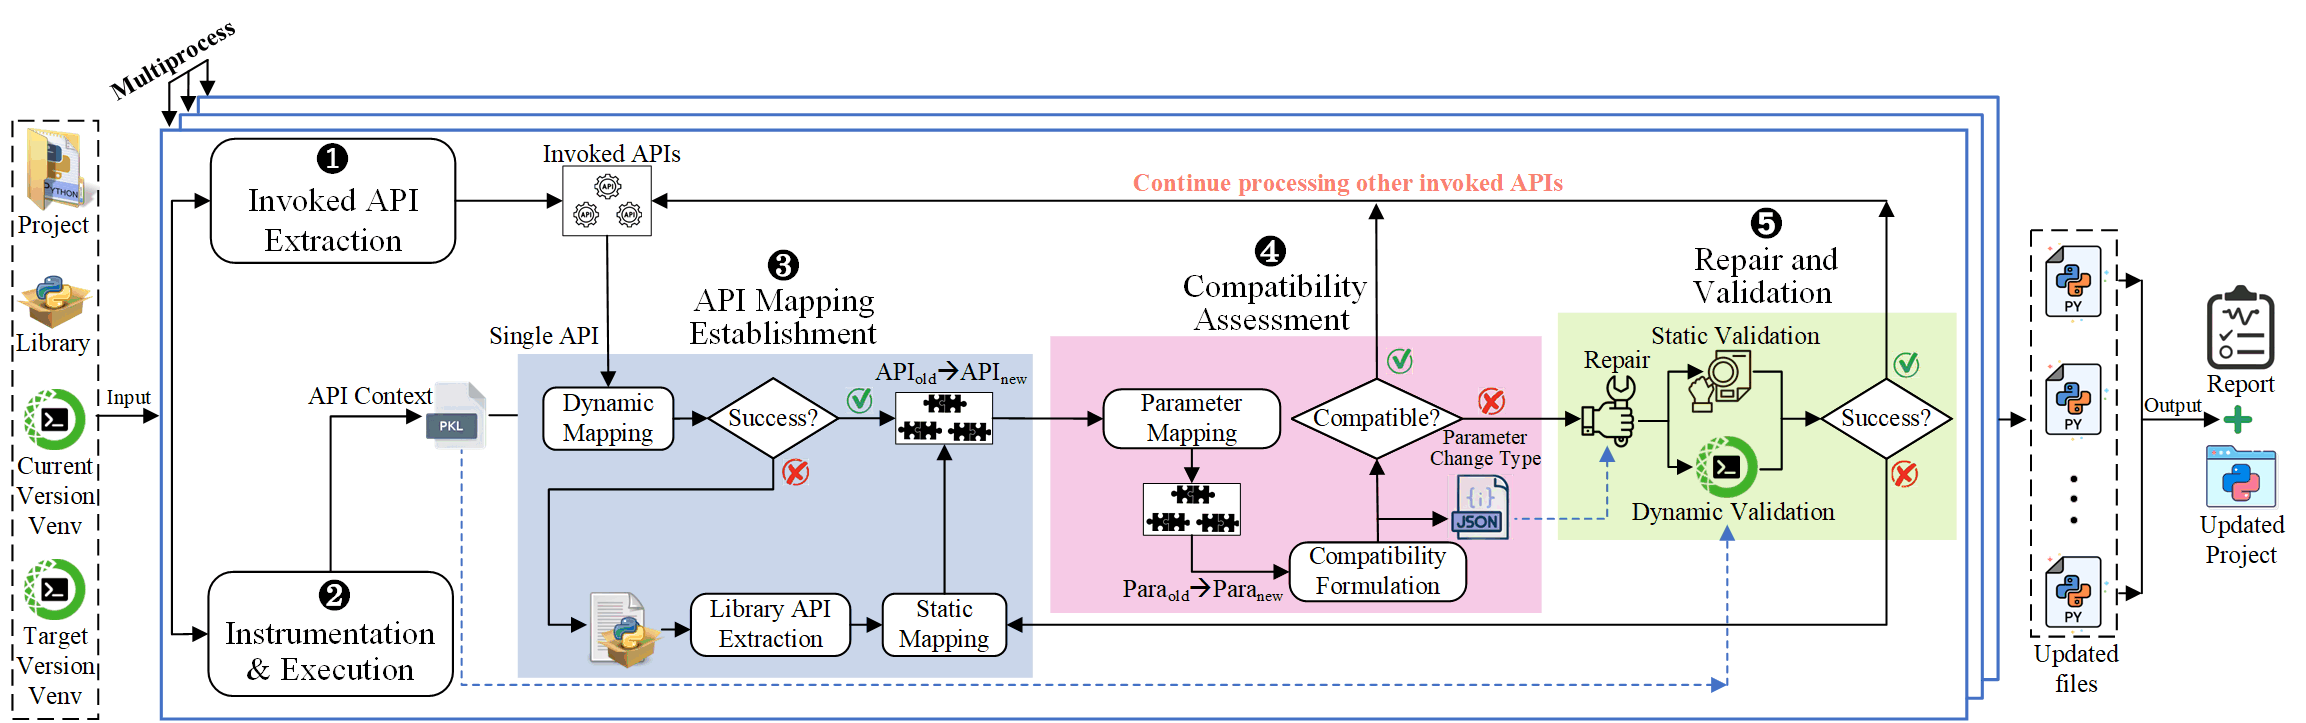
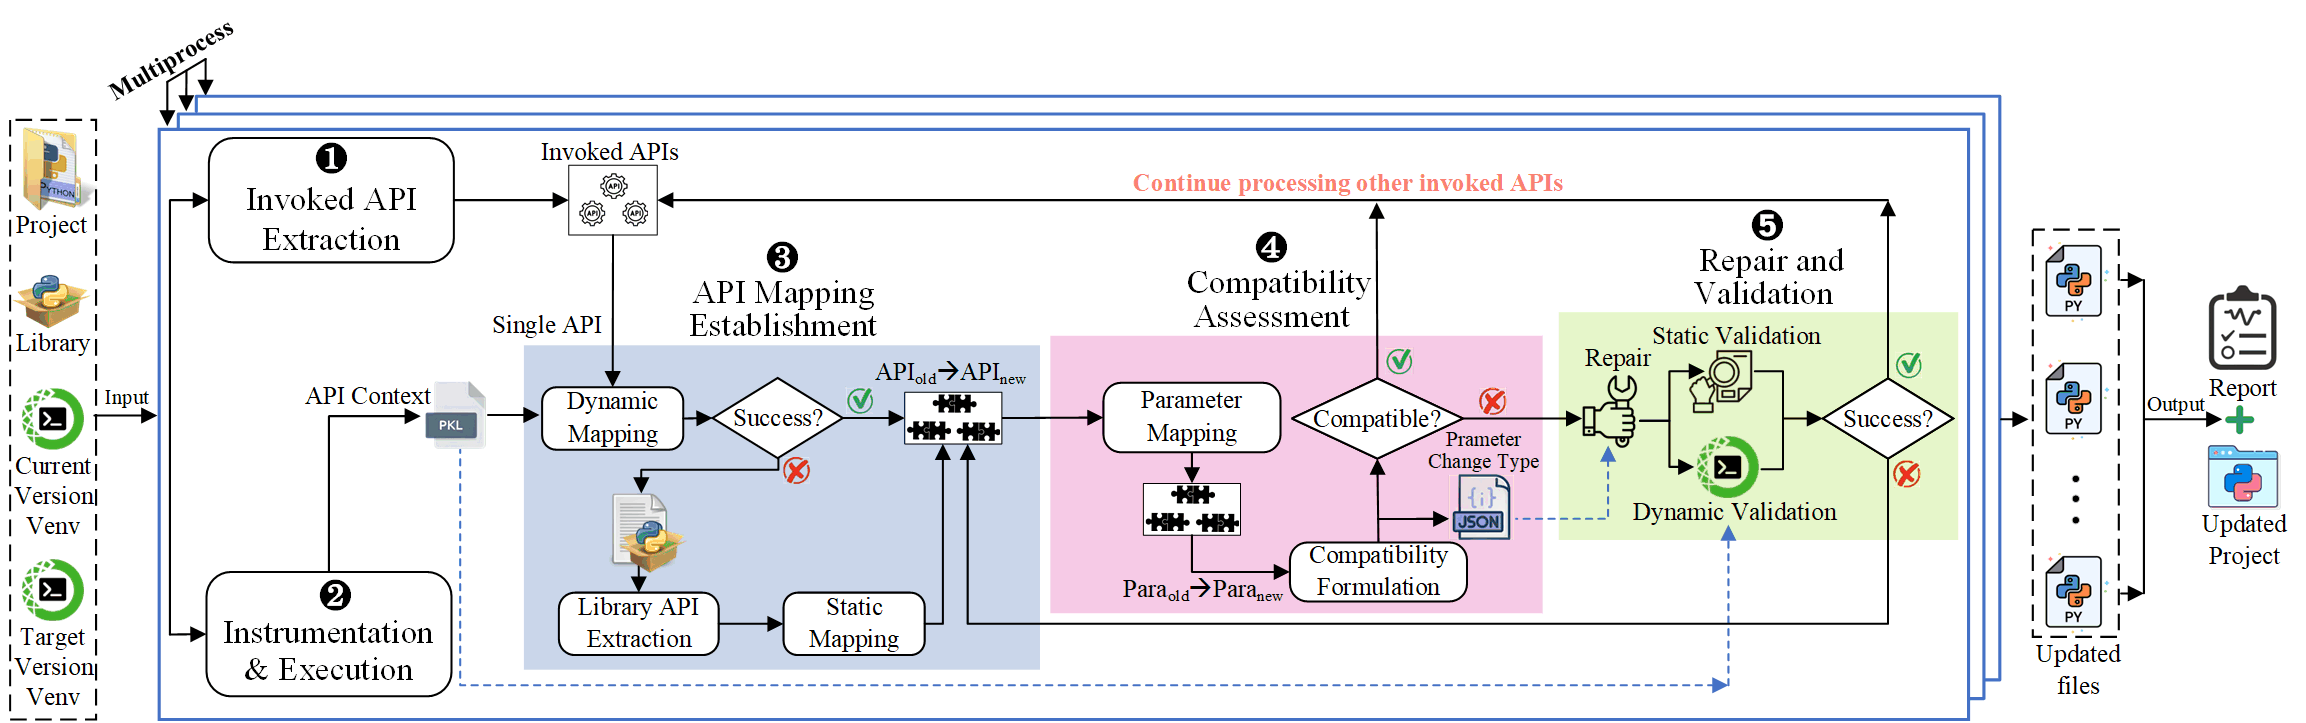
update PCART doxygen

diff --git a/html/classextractCall_1_1GetFuncCall.html b/html/classextractCall_1_1GetFuncCall.html
@@ -135,11 +135,15 @@ Public Member Functions</h2></td></tr>
 Here is the call graph for this function:</div>
 <div class="dyncontent">
 <div class="center"><img src="classextractCall_1_1GetFuncCall_ad1e246a71e92f76bf81912bbafa6445b_cgraph.png" border="0" usemap="#classextractCall_1_1GetFuncCall_ad1e246a71e92f76bf81912bbafa6445b_cgraph" alt=""/></div>
+<map name="classextractCall_1_1GetFuncCall_ad1e246a71e92f76bf81912bbafa6445b_cgraph" id="classextractCall_1_1GetFuncCall_ad1e246a71e92f76bf81912bbafa6445b_cgraph">
+</map>
 </div>
 <div class="dynheader">
 Here is the caller graph for this function:</div>
 <div class="dyncontent">
 <div class="center"><img src="classextractCall_1_1GetFuncCall_ad1e246a71e92f76bf81912bbafa6445b_icgraph.png" border="0" usemap="#classextractCall_1_1GetFuncCall_ad1e246a71e92f76bf81912bbafa6445b_icgraph" alt=""/></div>
+<map name="classextractCall_1_1GetFuncCall_ad1e246a71e92f76bf81912bbafa6445b_icgraph" id="classextractCall_1_1GetFuncCall_ad1e246a71e92f76bf81912bbafa6445b_icgraph">
+</map>
 </div>
 
 </div>

diff --git a/html/classextractDef_1_1FunctionDefVisitor.html b/html/classextractDef_1_1FunctionDefVisitor.html
@@ -73,11 +73,15 @@ $(function() {
 Inheritance diagram for FunctionDefVisitor:</div>
 <div class="dyncontent">
 <div class="center"><img src="classextractDef_1_1FunctionDefVisitor__inherit__graph.png" border="0" usemap="#FunctionDefVisitor_inherit__map" alt="Inheritance graph"/></div>
+<map name="FunctionDefVisitor_inherit__map" id="FunctionDefVisitor_inherit__map">
+</map>
 <center><span class="legend">[<a href="graph_legend.html">legend</a>]</span></center></div>
 <div class="dynheader">
 Collaboration diagram for FunctionDefVisitor:</div>
 <div class="dyncontent">
 <div class="center"><img src="classextractDef_1_1FunctionDefVisitor__coll__graph.png" border="0" usemap="#FunctionDefVisitor_coll__map" alt="Collaboration graph"/></div>
+<map name="FunctionDefVisitor_coll__map" id="FunctionDefVisitor_coll__map">
+</map>
 <center><span class="legend">[<a href="graph_legend.html">legend</a>]</span></center></div>
 <table class="memberdecls">
 <tr class="heading"><td colspan="2"><h2 class="groupheader"><a name="pub-methods"></a>

diff --git a/html/classextractCall_1_1AssignVisitor.html b/html/classextractCall_1_1AssignVisitor.html
@@ -73,11 +73,15 @@ $(function() {
 Inheritance diagram for AssignVisitor:</div>
 <div class="dyncontent">
 <div class="center"><img src="classextractCall_1_1AssignVisitor__inherit__graph.png" border="0" usemap="#AssignVisitor_inherit__map" alt="Inheritance graph"/></div>
+<map name="AssignVisitor_inherit__map" id="AssignVisitor_inherit__map">
+</map>
 <center><span class="legend">[<a href="graph_legend.html">legend</a>]</span></center></div>
 <div class="dynheader">
 Collaboration diagram for AssignVisitor:</div>
 <div class="dyncontent">
 <div class="center"><img src="classextractCall_1_1AssignVisitor__coll__graph.png" border="0" usemap="#AssignVisitor_coll__map" alt="Collaboration graph"/></div>
+<map name="AssignVisitor_coll__map" id="AssignVisitor_coll__map">
+</map>
 <center><span class="legend">[<a href="graph_legend.html">legend</a>]</span></center></div>
 <table class="memberdecls">
 <tr class="heading"><td colspan="2"><h2 class="groupheader"><a name="pub-methods"></a>

diff --git a/html/classextractDef_1_1FromImport.html b/html/classextractDef_1_1FromImport.html
@@ -73,11 +73,15 @@ $(function() {
 Inheritance diagram for FromImport:</div>
 <div class="dyncontent">
 <div class="center"><img src="classextractDef_1_1FromImport__inherit__graph.png" border="0" usemap="#FromImport_inherit__map" alt="Inheritance graph"/></div>
+<map name="FromImport_inherit__map" id="FromImport_inherit__map">
+</map>
 <center><span class="legend">[<a href="graph_legend.html">legend</a>]</span></center></div>
 <div class="dynheader">
 Collaboration diagram for FromImport:</div>
 <div class="dyncontent">
 <div class="center"><img src="classextractDef_1_1FromImport__coll__graph.png" border="0" usemap="#FromImport_coll__map" alt="Collaboration graph"/></div>
+<map name="FromImport_coll__map" id="FromImport_coll__map">
+</map>
 <center><span class="legend">[<a href="graph_legend.html">legend</a>]</span></center></div>
 <table class="memberdecls">
 <tr class="heading"><td colspan="2"><h2 class="groupheader"><a name="pub-methods"></a>

diff --git a/html/classextractCall_1_1Import.html b/html/classextractCall_1_1Import.html
@@ -73,11 +73,15 @@ $(function() {
 Inheritance diagram for Import:</div>
 <div class="dyncontent">
 <div class="center"><img src="classextractCall_1_1Import__inherit__graph.png" border="0" usemap="#Import_inherit__map" alt="Inheritance graph"/></div>
+<map name="Import_inherit__map" id="Import_inherit__map">
+</map>
 <center><span class="legend">[<a href="graph_legend.html">legend</a>]</span></center></div>
 <div class="dynheader">
 Collaboration diagram for Import:</div>
 <div class="dyncontent">
 <div class="center"><img src="classextractCall_1_1Import__coll__graph.png" border="0" usemap="#Import_coll__map" alt="Collaboration graph"/></div>
+<map name="Import_coll__map" id="Import_coll__map">
+</map>
 <center><span class="legend">[<a href="graph_legend.html">legend</a>]</span></center></div>
 <table class="memberdecls">
 <tr class="heading"><td colspan="2"><h2 class="groupheader"><a name="pub-methods"></a>
